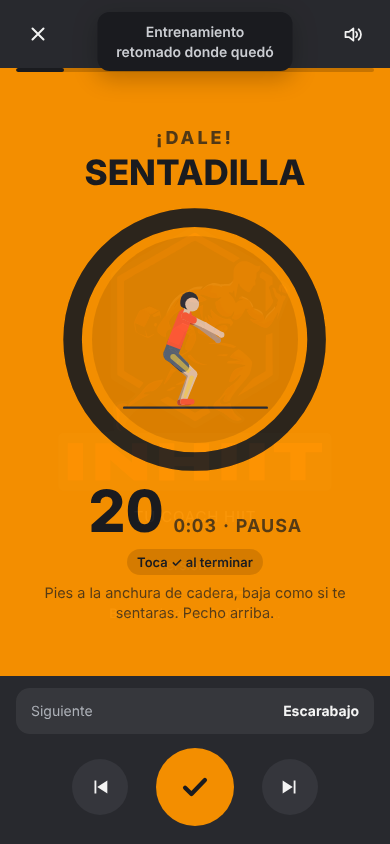
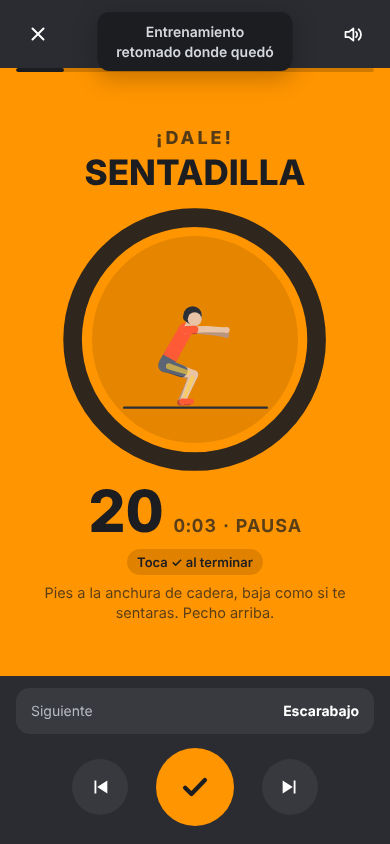
Animación del cruce de pierna flexionada: vista desde arriba, boca arriba, un lado por mitad
Claude-Session: https://claude.ai/code/session_01EvqYXxUWrK7YBHDTTEksiw

Changed region(s): [[0.4, 0.3389, 0.5846, 0.4621]]

diff --git a/anim.js b/anim.js
@@ -357,7 +357,7 @@ const Anim = (() => {
     wall_lateral_pull_downs: ['wall_pull', {}],
     bridge: 'bridge', single_leg_bridge: 'bridge_single', crab_bridge: 'crab', sl_crab_bridge: 'crab_single', reverse_plank: 'reverse_plank', triceps_dip: 'dip',
     quadruped_limb_raises: 'bird_dog', quadruped_knee_to_elbow: 'quad_knee', donkey_kicks: 'donkey', fire_hydrant: 'hydrant_rear', cat_cow: 'cat_cow',
-    hip_abduction: 'abduction', hip_adduction: 'adduction', bent_leg_cross_overs: 'cross_front',
+    hip_abduction: 'abduction', hip_adduction: 'adduction', bent_leg_cross_overs: 'cross_top', 'bent_leg_cross_overs@R': 'cross_top_r', 'bent_leg_cross_overs@L': 'cross_top_l',
     punches: 'punches', crossing_punches: 'punch_cross_front', arm_circles_forward: 'circles_fwd', arm_circles_backward: 'circles_back', hip_openers: 'hip_open_front',
     childs_pose: 'child', cobblers_stretch: 'butterfly', dynamic_calf_stretch: 'calf_stretch', kneeling_hip_flexor_stretch: 'hip_flexor',
     lying_figure_4_stretch: 'figure4', overhead_triceps_stretch: 'triceps', shoulder_cross_stretch: 'shoulder', standing_quadriceps_stretch: 'quad_stretch',
@@ -485,6 +485,17 @@ const Anim = (() => {
   const KD = m(LW, { kLL: 0.55, kLR: 0.55, kSL: 0.42, kSR: 0.42 });
   T.knee_drops = () => k([m(KD, { tL: 176, sL: 176, tR: 184, sR: 184 }), m(KD, { tL: 128, sL: 128, tR: 134, sR: 134 }), m(KD, { tL: 176, sL: 176, tR: 184, sR: 184 }), m(KD, { tL: 226, sL: 226, tR: 232, sR: 232 })], 3600, { anchor: 'hip', anchorY: 'hip', armsBack: true, legsFront: true });
   const CF = m(LW, { tL: 172, sL: 190, tR: 188, sR: 170, kSL: 0.7, kSR: 0.7 });
+  // cruce de pierna flexionada visto desde arriba (boca arriba, cabeza a la derecha, brazos en cruz sobre la colchoneta):
+  // la rodilla se dobla, cruza por encima de la otra pierna hacia el lado contrario y vuelve; luego la otra pierna
+  const SUP = { v: 't', t: 90, hd: 0, uL: 16, fL: 22, uR: 164, fR: 158, kAL: 0.82, kAR: 0.82, tL: -85, sL: -85, tR: -95, sR: -95, pL: -90, pR: -90 };
+  const SUP_KR = m(SUP, { tR: -100, sR: -80, kLR: 0.5, kSR: 0.55 });          // rodilla derecha arriba (en escorzo)
+  const SUP_XR = m(SUP, { t: 86, tR: -28, sR: -128, pR: -150 });               // cruzada hacia el otro lado
+  const SUP_KL = m(SUP, { tL: -80, sL: -100, kLL: 0.5, kSL: 0.55 });
+  const SUP_XL = m(SUP, { t: 94, tL: -152, sL: -52, pL: -30 });
+  T.cross_top = () => k([SUP, SUP_KR, SUP_XR, SUP_XR, SUP_KR, SUP, SUP_KL, SUP_XL, SUP_XL, SUP_KL], 6400, { anchor: 'sh', anchorY: 'sh', ground: false, face: true });
+  // en el reproductor, una pierna por mitad del ejercicio (lado derecho y después izquierdo)
+  T.cross_top_r = () => k([SUP, SUP_KR, SUP_XR, SUP_XR, SUP_KR], 3400, { anchor: 'sh', anchorY: 'sh', ground: false, face: true });
+  T.cross_top_l = () => k([SUP, SUP_KL, SUP_XL, SUP_XL, SUP_KL], 3400, { anchor: 'sh', anchorY: 'sh', ground: false, face: true });
   T.cross_front = () => k([CF, m(CF, { tR: 236, sR: 208 }), CF, m(CF, { tL: 124, sL: 152 })], 3600, { anchor: 'hip', anchorY: 'hip', armsBack: true, legsFront: true });
   // golpes cruzados de frente
   const GF = m(F0, { uL: -28, fL: 150, uR: 28, fR: -150, tL: -14, sL: -8, tR: 14, sR: 8 });
@@ -578,7 +589,7 @@ const Anim = (() => {
       if (p.ancPrev && ki > 0) { const q = keys[ki - 1], Jq = fk(q); p.ox = Jq[p.ancPrev][0] + q.ox - J[p.ancPrev][0]; }
       p.oy = tpl.anchorY ? ay0 - J[tpl.anchorY][1] : -lowest(J) - (p.air || 0);
     });
-    const anim = { id, v: keys[0].v, keys, ms: tpl.ms, props: tpl.props || [], open: !!tpl.open, ground: tpl.ground !== false, anchorY: tpl.anchorY, badge: tpl.badge, hands: tpl.hands != null ? !!tpl.hands : !!keys[0].sup && /^(hand|elbow)/.test(anchor), armsBack: !!tpl.armsBack, db: tpl.db || null, legsFront: !!tpl.legsFront, armsFront: !!tpl.armsFront, farShade: !!tpl.farShade, noFix: !!tpl.noFix };
+    const anim = { id, v: keys[0].v, face: !!tpl.face, keys, ms: tpl.ms, props: tpl.props || [], open: !!tpl.open, ground: tpl.ground !== false, anchorY: tpl.anchorY, badge: tpl.badge, hands: tpl.hands != null ? !!tpl.hands : !!keys[0].sup && /^(hand|elbow)/.test(anchor), armsBack: !!tpl.armsBack, db: tpl.db || null, legsFront: !!tpl.legsFront, armsFront: !!tpl.armsFront, farShade: !!tpl.farShade, noFix: !!tpl.noFix };
     // encuadre: recorre el ciclo y calcula la caja que ocupa
     let x0 = 1e9, x1 = -1e9, y0 = 1e9;
     for (let i = 0; i < 48; i++) {
@@ -1001,8 +1012,9 @@ const Anim = (() => {
       html += circ(at(-fw[0] * 6.5 - up[0] * 4.5, -fw[1] * 6.5 - up[1] * 4.5), 5, C.hair);
       html += circ(at(fw[0] * 3.2 - up[0] * 1.8, fw[1] * 3.2 - up[1] * 1.8), 8.8, C.skin);
     } else if (top) {
-      // desde arriba se ve la coronilla
-      html += circ(at(up[0] * 1.5, up[1] * 1.5), 9.6, C.hair);
+      // desde arriba se ve la coronilla; boca arriba (face), la cara con el pelo hacia la coronilla
+      if (a.face) { html += circ(at(up[0] * 2.4, up[1] * 2.4), 10.4, C.hair); html += circ(at(-up[0] * 1.4, -up[1] * 1.4), 8.6, C.skin); }
+      else html += circ(at(up[0] * 1.5, up[1] * 1.5), 9.6, C.hair);
     } else {
       // de frente: pelo arriba y a los lados, flequillo cubriendo parte de la frente
       html += circ(at(up[0] * 2.2, up[1] * 2.2), 11.5, C.hair);
@@ -1148,7 +1160,9 @@ const Anim = (() => {
       c.parts.forEach(pt => live.add(pt)); combos.add(c); kick();
       return c.parts[0];
     }
-    const inst = svgFor(id, (e.t === 'x' ? (e.p || '')[0] : ''), !!opts.label);
+    // por lado: si hay una versión de un solo lado (id@R / id@L) se usa esa
+    const sid = opts.side && MAP[id + '@' + opts.side] ? id + '@' + opts.side : id;
+    const inst = svgFor(sid, (e.t === 'x' ? (e.p || '')[0] : ''), !!opts.label);
     if (opts.speed) inst.speed = opts.speed;
     el.appendChild(inst.svg);
     // en el reproductor el esquema de manos es ilegible: se reemplaza por una etiqueta de texto

diff --git a/app.js b/app.js
@@ -1786,7 +1786,7 @@ function tick() {
       if (done !== P.repDone) { if (P.repDone != null && done > P.repDone && S.abTick !== false && done < s.cnt) beep(1320, 40, .07); P.repDone = done;
         const left = s.cnt - done; if (left === 10 && s.cnt >= 16) say('Faltan diez.'); }
     }
-    if (s.k === 'work' && ex(s.ex).s && !P.half && rem <= s.dur * 500) { P.half = true; beep(988, 200, .25); say('Cambia de lado'); if (sideGap()) P.sw = sideGap() * 1000; }
+    if (s.k === 'work' && ex(s.ex).s && !P.half && rem <= s.dur * 500) { P.half = true; beep(988, 200, .25); say('Cambia de lado'); if (sideGap()) P.sw = sideGap() * 1000; mountPlayerAnim(s); }
     paint();
   }
   if (now - P.lastSave > 3000) saveSession();
@@ -1891,11 +1891,17 @@ function render() {
     $('#p-side').querySelectorAll('[data-a]').forEach(b => b.onclick = () => setV((+inp.value || 0) + +b.dataset.a));
   }
   const animId = s.k === 'work' ? s.ex : s.next;
-  if (animId && P.animId !== animId) { P.animId = animId; Anim.mount($('#p-anim'), animId, { label: true }); }
+  mountPlayerAnim(s);
   Anim.setPaused($('#p-anim'), P.paused && !s.reps);
   $('#p-play').innerHTML = s.reps ? ICON_DONE : (P.paused ? ICON_PLAY : ICON_PAUSE);
   $('#p-play').setAttribute('aria-label', s.reps ? 'Hecho' : (P.paused ? 'Continuar' : 'Pausa'));
   paint();
+}
+// animación del reproductor; en ejercicios por lado, la versión de cada lado si existe (cambia a la mitad)
+function mountPlayerAnim(s) {
+  const animId = s.k === 'work' ? s.ex : s.next; if (!animId) return;
+  const side = s.k === 'work' && !s.reps && ex(s.ex).s ? (P.half ? 'L' : 'R') : '', key = animId + side;
+  if (P.animId !== key) { P.animId = key; Anim.mount($('#p-anim'), animId, { label: true, side }); }
 }
 function paint() {
   const s = cur(); if (!s) return;

diff --git a/sw.js b/sw.js
@@ -1,7 +1,7 @@
 /* Service worker de Intervalo: estrategia «primero la caché».
    La app (HTML, JS, iconos) se sirve siempre desde el almacenamiento del teléfono,
    al instante y sin internet; si hay red, se actualiza en segundo plano para la próxima vez. */
-const VERSION = 'intervalo-v147';
+const VERSION = 'intervalo-v148';
 const SHELL = [
   './', './index.html', './app.js', './anim.js', './extras.js', './voice.js', './calendar.js', './retos_data.js', './retos.js', './dumbbells.js', './abs.js', './stats.js', './cloud.js', './more.js', './timer.js', './silencio.mp3', './fb.js', './qr.js', './data.js', './i18n.js', './i18n/en.js', './manifest.webmanifest',
   './icons/icon-192.png', './icons/icon-512.png', './icons/maskable-512.png', './icons/apple-touch-icon.png', './icons/logo.svg', './icons/logo-header.svg', './icons/logo-mark.svg'
